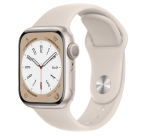
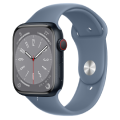
Build Apple Watch

diff --git a/js/script.js b/js/script.js
@@ -14,56 +14,33 @@ let toggle1 = document.querySelector(".toggle1");
 let toggle2 = document.querySelector(".toggle2");
 let toggle3 = document.querySelector(".toggle3");
 let toggle4 = document.querySelector(".toggle4");
+let toggle5 = document.querySelector(".toggle5");
 
 const toggleWatchesImagesObj = {
   watchCircle: "translate(-50%, -50%) rotate(0deg)",
   watchTransition: "all 0.8s linear",
   rotate: [
-    "rotate(270deg) translate(282px) rotate(-270deg)",
-    "rotate(330deg) translate(282px) rotate(-331deg)",
+    "rotate(270deg) translate(282px) rotate(-271deg)",
+    "rotate(330deg) translate(282px) rotate(-332deg)",
     "rotate(390deg) translate(282px) rotate(-390deg)",
     "rotate(450deg) translate(282px) rotate(-448deg)",
     "rotate(510deg) translate(282px) rotate(-511deg)",
-    "rotate(570deg) translate(282px) rotate(-574deg)",
+    "rotate(570deg) translate(282px) rotate(-571deg)",
   ],
 };
 const toggleWatchesImageObj1 = {
   watchCircle: "translate(-50%, -50%) rotate(-60deg)  ",
   watchTransition: "all 0.8s linear",
   rotate: [
-    "rotate(270deg) translate(282px) rotate(-211deg)",
-    "rotate(330deg) translate(282px) rotate(-269deg)",
-    "rotate(390deg) translate(282px) rotate(-328deg)",
+    "rotate(270deg) translate(282px) rotate(-210deg)",
+    "rotate(330deg) translate(282px) rotate(-270deg)",
+    "rotate(390deg) translate(282px) rotate(-331deg)",
     "rotate(450deg) translate(282px) rotate(-391deg)",
     "rotate(510deg) translate(282px) rotate(-450deg)",
     "rotate(570deg) translate(282px) rotate(-512deg)",
   ],
 };
 const toggleWatchesImageObj2 = {
-  watchCircle: "translate(-50%, -50%) rotate(60deg)",
-  watchTransition: "all 0.8s linear",
-  rotate: [
-    "rotate(270deg) translate(282px) rotate(-332deg)",
-    "rotate(330deg) translate(282px) rotate(-392deg)",
-    "rotate(390deg) translate(282px) rotate(-450deg)",
-    "rotate(450deg) translate(282px) rotate(-513deg)",
-    "rotate(510deg) translate(282px) rotate(-570deg)",
-    "rotate(570deg) translate(282px) rotate(-630deg)",
-  ],
-};
-const toggleWatchesImageObj3 = {
-  watchCircle: "translate(-50%, -50%) rotate(180deg)",
-  watchTransition: "all 0.8s linear",
-  rotate: [
-    "rotate(270deg) translate(282px) rotate(-449deg)",
-    "rotate(330deg) translate(282px) rotate(-511deg)",
-    "rotate(390deg) translate(282px) rotate(-567deg)",
-    "rotate(450deg) translate(282px) rotate(-632deg)",
-    "rotate(510deg) translate(282px) rotate(-690deg)",
-    "rotate(570deg) translate(282px) rotate(-751deg)",
-  ],
-};
-const toggleWatchesImageObj4 = {
   watchCircle: "translate(-50%, -50%) rotate(-120deg)",
   watchTransition: "all 0.8s linear",
   rotate: [
@@ -73,6 +50,42 @@ const toggleWatchesImageObj4 = {
     "rotate(450deg) translate(282px) rotate(-331deg)",
     "rotate(510deg) translate(282px) rotate(-391deg)",
     "rotate(570deg) translate(282px) rotate(-453deg)",
+  ],
+};
+const toggleWatchesImageObj3 = {
+  watchCircle: "translate(-50%, -50%) rotate(-180deg)",
+  watchTransition: "all 0.8s linear",
+  rotate: [
+    "rotate(270deg) translate(282px) rotate(-93deg)",
+    "rotate(330deg) translate(282px) rotate(-152deg)",
+    "rotate(390deg) translate(282px) rotate(-212deg)",
+    "rotate(450deg) translate(282px) rotate(-272deg)",
+    "rotate(510deg) translate(282px) rotate(-333deg)",
+    "rotate(570deg) translate(282px) rotate(-390deg)",
+  ],
+};
+const toggleWatchesImageObj4 = {
+  watchCircle: "translate(-50%, -50%) rotate(-240deg)",
+  watchTransition: "all 0.8s linear",
+  rotate: [
+    "rotate(270deg) translate(282px) rotate(-29deg)",
+    "rotate(330deg) translate(282px) rotate(-91deg)",
+    "rotate(390deg) translate(282px) rotate(-152deg)",
+    "rotate(450deg) translate(282px) rotate(-213deg)",
+    "rotate(510deg) translate(282px) rotate(-270deg)",
+    "rotate(570deg) translate(282px) rotate(-332deg)",
+  ],
+};
+const toggleWatchesImageObj5 = {
+  watchCircle: "translate(-50%, -50%) rotate(-304deg)",
+  watchTransition: "all 0.8s linear",
+  rotate: [
+    "rotate(270deg) translate(282px) rotate(33deg)",
+    "rotate(330deg) translate(282px) rotate(-24deg)",
+    "rotate(390deg) translate(282px) rotate(-88deg)",
+    "rotate(450deg) translate(282px) rotate(-146deg)",
+    "rotate(521deg) translate(282px) rotate(-218deg)",
+    "rotate(570deg) translate(282px) rotate(-267deg)",
   ],
 };
 
@@ -88,7 +101,7 @@ toggle.addEventListener("click", () =>
 );
 toggle1.addEventListener("click", () =>
   controlAnimation(
-    "/assets/img-lg-4.png",
+    "/assets/img-lg-2.png",
     "hsla(230, 5%, 24%,8%)",
     "hsl(230, 5%, 24%)",
     "toggle1"
@@ -96,7 +109,7 @@ toggle1.addEventListener("click", () =>
 );
 toggle2.addEventListener("click", () =>
   controlAnimation(
-    "/assets/img-lg-2.png",
+    "/assets/img-lg-3.png",
     "hsla(214, 14%, 49%,8%)",
     "hsl(214, 14%, 49%)",
     "toggle2"
@@ -104,7 +117,7 @@ toggle2.addEventListener("click", () =>
 );
 toggle3.addEventListener("click", () =>
   controlAnimation(
-    "/assets/img-lg-3.png",
+    "/assets/img-lg-4.png",
     "hsl(0, 0%, 96%)",
     "hsl(0, 0%, 90%)",
     "toggle3"
@@ -118,6 +131,14 @@ toggle4.addEventListener("click", () =>
     "toggle4"
   )
 );
+toggle5.addEventListener("click", () =>
+  controlAnimation(
+    "/assets/img-lg-6.png",
+    "hsl(32, 100%, 95%)",
+    "hsl(32, 45%, 50%)",
+    "toggle5"
+  )
+);
 
 // ******* Toggle addEventListener ******
 // ******* Toggle Function ******
@@ -129,7 +150,6 @@ function controlAnimation(img, color, textColor, toggle) {
   const awaits = document.querySelector(".awaits");
   const learn = document.querySelector(".learn");
   circlePath.style.backgroundColor = color;
-  awaits.style.color = textColor;
   learn.style.color = textColor;
   largeWatch.classList.remove("ani");
 
@@ -140,6 +160,7 @@ function controlAnimation(img, color, textColor, toggle) {
 
   setTimeout(() => {
     largeWatch.classList.add("ani");
+
     for (const watchImage of watchImages) {
       watchImage.style.transition = "all 0.8s linear";
     }
@@ -152,6 +173,7 @@ function controlAnimation(img, color, textColor, toggle) {
     toggleColor.style.border = null;
     toggleColor.style.borderColor = null;
   }
+
   setTimeout(() => {
     for (const toggleColor of toggleColors) {
       if (toggleColor.className === toggle) {
@@ -204,6 +226,14 @@ function controlAnimation(img, color, textColor, toggle) {
       }
       watchCircle.style.transform = toggleWatchesImageObj4.watchCircle;
       watchCircle.style.transition = toggleWatchesImageObj4.watchTransition;
+      break;
+    case "toggle5":
+      for (const [index] of toggleWatchesImageObj5.rotate.entries()) {
+        watchImages[index].style.transform =
+          toggleWatchesImageObj5.rotate[index];
+      }
+      watchCircle.style.transform = toggleWatchesImageObj5.watchCircle;
+      watchCircle.style.transition = toggleWatchesImageObj5.watchTransition;
       break;
     default:
       "";

diff --git a/index.html b/index.html
@@ -15,9 +15,8 @@
           <img src="/assets/img2.png" alt="" />
           <img src="/assets/img3.png" alt="" />
           <img src="/assets/img4.png" alt="" />
-          <!-- <img src="/assets/img5.png" alt="" /> -->
-          <img src="/assets/img2.png" alt="" />
           <img src="/assets/img5.png" alt="" />
+          <img src="/assets/img6.png" alt="" />
         </div>
       </div>
       <header>
@@ -54,7 +53,10 @@
           <div style="--background: hsl(0, 0%, 90%)"></div>
         </li>
         <li class="toggle4">
-          <div style="--background: hsl(28, 21%, 82%);"></div>
+          <div style="--background: hsl(28, 21%, 82%)"></div>
+        </li>
+        <li class="toggle5">
+          <div style="--background: hsl(32, 45%, 50%)"></div>
         </li>
       </ul>
     </section>

diff --git a/css/style.css b/css/style.css
@@ -186,3 +186,5 @@ section .colors li div {
     transform: translate(-50%, -50%) rotate(0) scale(1);
   }
 }
+
+
